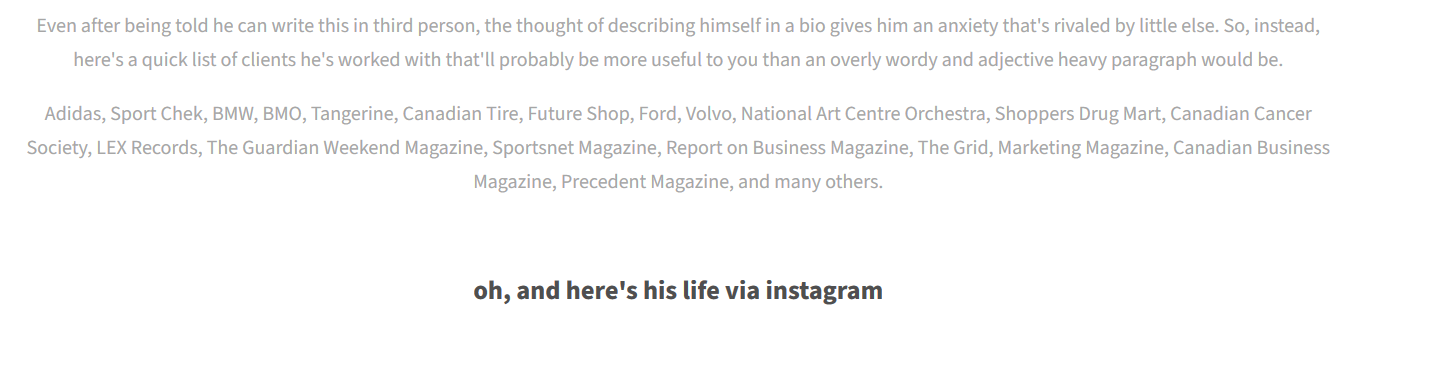
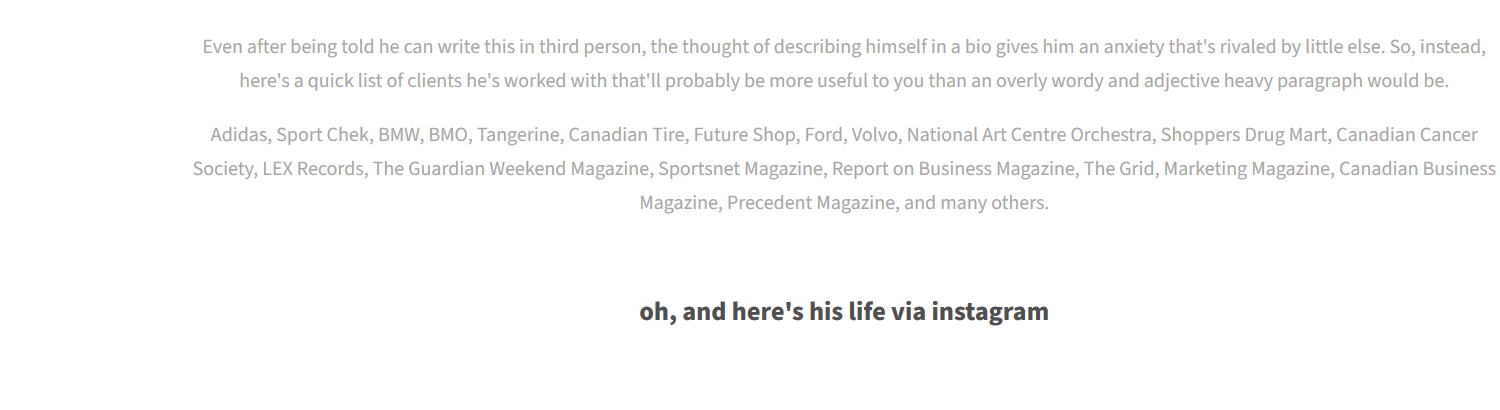
about page contents aligned correctly

diff --git a/about.html b/about.html
@@ -59,23 +59,26 @@
         
         </table>
         <br>
-<table align="right" >
+<table  cellspacing="25">
 <tr>
     <td><p>   </p></td>
 
 <td><img src="./assets/images/about/111.jpg" width="500" height="300" alt=""></td>
-<table align="right">
-    <tr>
-        <td>
-            <p>Lorem ipsum dolor sit, amet consectetur adipisicing elit. Ipsam, iusto ducimus. Voluptatum tempora debitis deserunt repellat accusantium esse beatae, saepe enim recusandae dolorum facilis distinctio, eligendi iure cum aut perspiciatis?</p>
-        </td>
-    </tr>
-</table>
 </tr>
-<br>
+
 <tr>
-    <td><p>Lorem, ipsum dolor sit amet consectetur adipisicing elit. Qui, voluptas facere. Quasi, voluptates placeat, maxime nobis ex, amet sapiente eaque expedita molestiae delectus illo unde magni quos harum quae vel!</p></td>
+    <table align="center">
+<tr>
+    <td>
+        <img src="./assets/images/about/Capture1.PNG"  width="1200" height=300" alt="">
+    </td>
 </tr>
+
+    </table>
+
+</tr>
+
+
 
 
 </table>
@@ -86,7 +89,7 @@
 
 
         <table 
-        cellspacing="50">
+        cellspacing="50" align="right">
         <tr>
         <td><a href="https://www.instagram.com/p/Bo0gxBsBlHA/?utm_source=ig_web_copy_link"><img src="./assets/images/about/1 (1).png" width="240" height="240" alt=""></a></td>
         <td><a href="https://www.instagram.com/p/b8HbgLTfCj/?utm_source=ig_web_copy_link"><img src="./assets/images/about/1 (2).png" width="240" height="240" alt=""></a></td>
